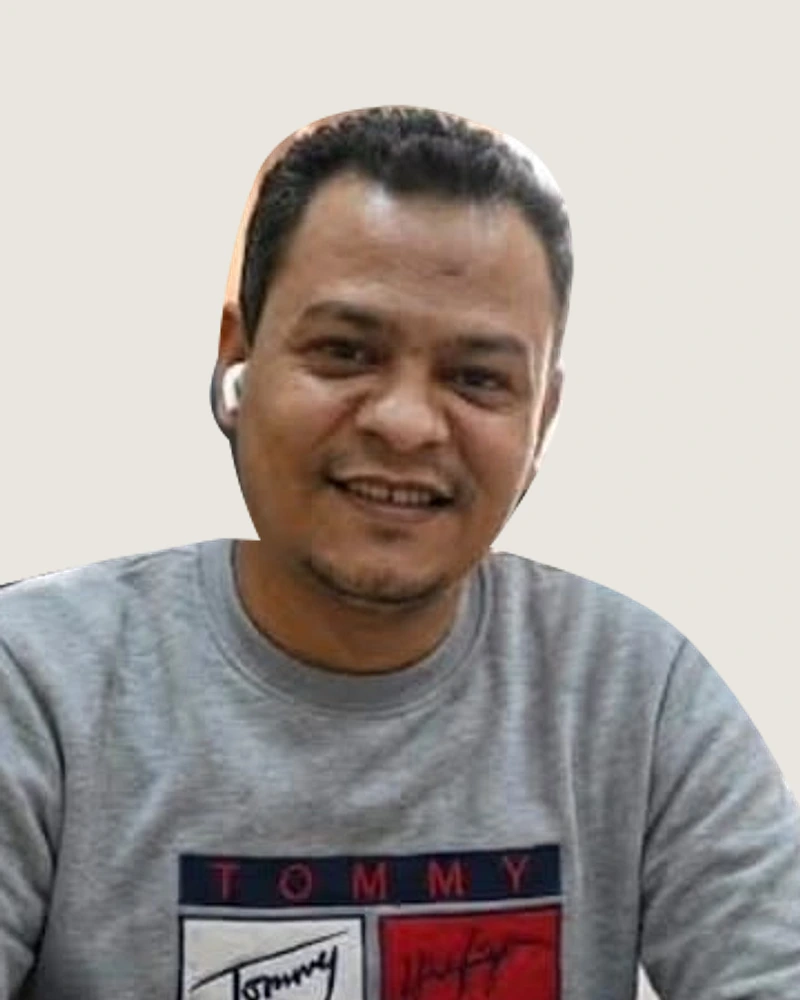
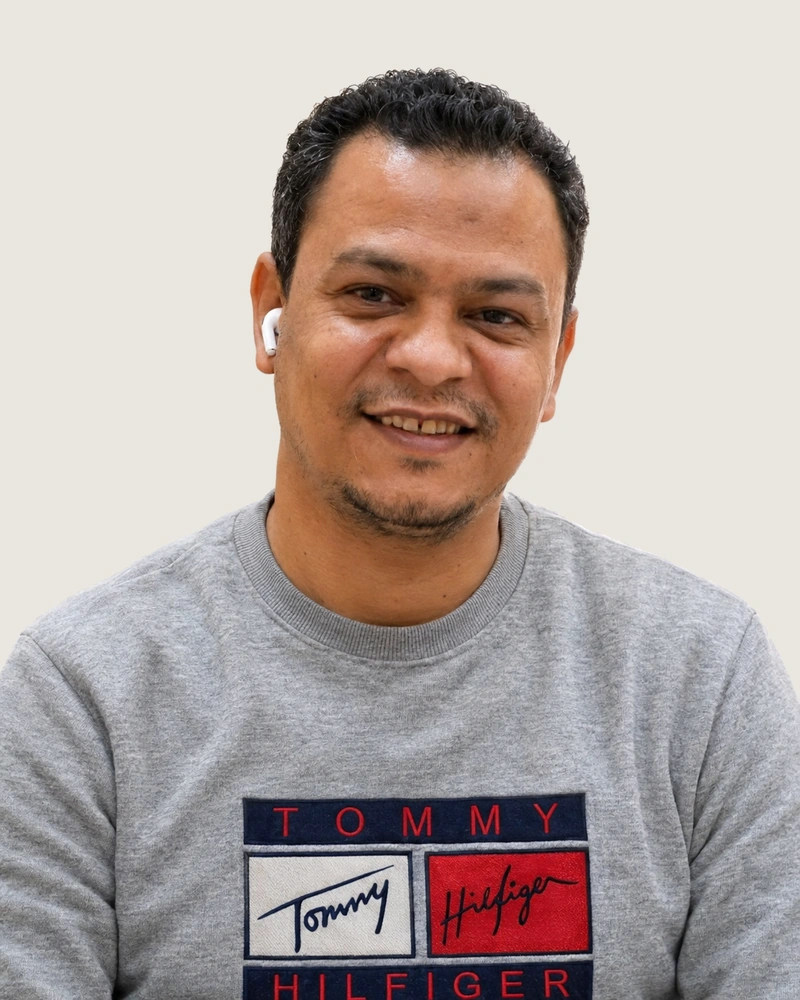
Refine three family portraits and add subtle fade and zoom

diff --git a/about.html b/about.html
@@ -1,13 +1,13 @@
 <!doctype html>
 <html lang="ar" dir="rtl"><head><meta charset="utf-8"><meta name="viewport" content="width=device-width,initial-scale=1">
 <title>من نحن | مصنع الفتح للوف المصري</title><meta name="description" content="مصنع الفتح للوف المصري الطبيعي. أكثر من 150 عاملًا، إنتاج يتجاوز 8000 قطعة يوميًا، وتصدير للخليج وأوروبا.">
-<meta name="theme-color" content="#163d30"><link rel="icon" type="image/svg+xml" href="assets/favicon.svg"><link rel="preload" href="assets/tajawal-medium.woff" as="font" type="font/woff" crossorigin><link rel="preload" href="assets/lalezar-regular.woff" as="font" type="font/woff" crossorigin><link rel="stylesheet" href="assets/style.css?v=6-family"><script src="assets/app.js?v=5-factory-photos" defer></script></head>
+<meta name="theme-color" content="#163d30"><link rel="icon" type="image/svg+xml" href="assets/favicon.svg"><link rel="preload" href="assets/tajawal-medium.woff" as="font" type="font/woff" crossorigin><link rel="preload" href="assets/lalezar-regular.woff" as="font" type="font/woff" crossorigin><link rel="stylesheet" href="assets/style.css?v=7-family-retouch"><script src="assets/app.js?v=5-factory-photos" defer></script></head>
 <body data-page="about" data-title-en="About us | Al Fath Egyptian Loofah"><a class="skip" href="#main"><span data-en="Skip to content" >انتقل للمحتوى</span></a><header class="site-header"><div class="wrap header-row"><a class="brand" href="index.html" aria-label="مصنع الفتح — الرئيسية" data-en-aria="Al Fath — Home">
     <svg class="brand-mark" viewBox="0 0 48 60" aria-hidden="true" fill="none" stroke="currentColor" stroke-width="1.1"><path d="M24 56V16M24 37C8 37 5 22 8 13c14 1 19 11 16 24Zm0-12c-2-10 1-19 13-23 5 12 1 21-13 23Zm0 22c14 0 21-13 18-22-13 1-21 11-18 22Z"/><path d="M10 17 24 37M35 8 24 25m15 5L24 47"/><path d="M9 57h30"/></svg>
     <span><strong data-en="Al Fath" class="brand-name">مصنع الفتح</strong><span class="brand-sub">SILK LOOFAH · EGYPT</span></span></a>
     <nav class="main-nav" id="main-nav" aria-label="القائمة الرئيسية" data-en-aria="Main navigation"><a href="index.html" ><span data-en="Home" >الرئيسية</span></a><a href="products.html" ><span data-en="Products" >المنتجات</span></a><a href="gallery.html" ><span data-en="Gallery" >معرض الصور</span></a><a href="about.html" aria-current="page" ><span data-en="About us" >من نحن</span></a><a href="contact.html" ><span data-en="Contact" >اتصل بنا</span></a></nav>
     <div class="header-actions"><a class="header-contact" href="contact.html"><span data-en="Wholesale &amp; export" >للتوريد والتصدير</span></a><button class="language" type="button" aria-label="Switch to English">EN</button>
-    <button class="menu-toggle" type="button" aria-expanded="false" aria-controls="main-nav" aria-label="فتح القائمة" data-en-aria="Open menu"><svg class="icon" viewBox="0 0 24 24" aria-hidden="true"><path d="M3 6h18M3 12h18M3 18h18"/></svg></button></div></div></header><main id="main"><section class="family-section" aria-labelledby="family-title"><div class="wrap"><div class="breadcrumb"><a href="index.html"><span data-en="Home" >الرئيسية</span></a><span>/</span><span data-en="About us" >من نحن</span></div><div class="family-heading"><h1 data-en="Al Fath Company &amp; Factory for Natural Loofah Production and Manufacturing" id="family-title">شركة ومصنع الفتح لانتاج وتصنيع اللوف الطبيعي</h1><p data-en="A family company" class="family-subtitle">شركة عائلية</p></div><div class="family-grid"><figure class="family-member"><img src="assets/family-01-hajj-fathi.webp" width="800" height="1000" alt="الحاج فتحى" data-en-alt="Hajj Fathi" fetchpriority="high" decoding="async"><figcaption><h2 data-en="Hajj Fathi" >الحاج فتحى</h2></figcaption></figure><figure class="family-member"><img src="assets/family-02-karam.webp" width="800" height="1000" alt="كرم" data-en-alt="Karam" loading="lazy" decoding="async"><figcaption><h2 data-en="Karam" >كرم</h2></figcaption></figure><figure class="family-member"><img src="assets/family-03-mohamed.webp" width="800" height="1000" alt="محمد" data-en-alt="Mohamed" loading="lazy" decoding="async"><figcaption><h2 data-en="Mohamed" >محمد</h2></figcaption></figure><figure class="family-member"><img src="assets/family-04-ibrahim.webp" width="800" height="1000" alt="ابراهيم" data-en-alt="Ibrahim" loading="lazy" decoding="async"><figcaption><h2 data-en="Ibrahim" >ابراهيم</h2></figcaption></figure><figure class="family-member"><img src="assets/family-05-ahmed.webp" width="800" height="1000" alt="احمد" data-en-alt="Ahmed" loading="lazy" decoding="async"><figcaption><h2 data-en="Ahmed" >احمد</h2></figcaption></figure></div></div></section>
+    <button class="menu-toggle" type="button" aria-expanded="false" aria-controls="main-nav" aria-label="فتح القائمة" data-en-aria="Open menu"><svg class="icon" viewBox="0 0 24 24" aria-hidden="true"><path d="M3 6h18M3 12h18M3 18h18"/></svg></button></div></div></header><main id="main"><section class="family-section" aria-labelledby="family-title"><div class="wrap"><div class="breadcrumb"><a href="index.html"><span data-en="Home" >الرئيسية</span></a><span>/</span><span data-en="About us" >من نحن</span></div><div class="family-heading"><h1 data-en="Al Fath Company &amp; Factory for Natural Loofah Production and Manufacturing" id="family-title">شركة ومصنع الفتح لانتاج وتصنيع اللوف الطبيعي</h1><p data-en="A family company" class="family-subtitle">شركة عائلية</p></div><div class="family-grid"><figure class="family-member"><div class="family-portrait" style="--portrait-delay:0ms"><img src="assets/family-01-hajj-fathi.webp?v=7-retouch" width="800" height="1000" alt="الحاج فتحى" data-en-alt="Hajj Fathi" fetchpriority="high" decoding="async"></div><figcaption><h2 data-en="Hajj Fathi" >الحاج فتحى</h2></figcaption></figure><figure class="family-member"><div class="family-portrait" style="--portrait-delay:90ms"><img src="assets/family-02-karam.webp" width="800" height="1000" alt="كرم" data-en-alt="Karam" loading="lazy" decoding="async"></div><figcaption><h2 data-en="Karam" >كرم</h2></figcaption></figure><figure class="family-member"><div class="family-portrait" style="--portrait-delay:180ms"><img src="assets/family-03-mohamed.webp?v=7-retouch" width="800" height="1000" alt="محمد" data-en-alt="Mohamed" loading="lazy" decoding="async"></div><figcaption><h2 data-en="Mohamed" >محمد</h2></figcaption></figure><figure class="family-member"><div class="family-portrait" style="--portrait-delay:270ms"><img src="assets/family-04-ibrahim.webp?v=7-retouch" width="800" height="1000" alt="ابراهيم" data-en-alt="Ibrahim" loading="lazy" decoding="async"></div><figcaption><h2 data-en="Ibrahim" >ابراهيم</h2></figcaption></figure><figure class="family-member"><div class="family-portrait" style="--portrait-delay:360ms"><img src="assets/family-05-ahmed.webp" width="800" height="1000" alt="احمد" data-en-alt="Ahmed" loading="lazy" decoding="async"></div><figcaption><h2 data-en="Ahmed" >احمد</h2></figcaption></figure></div></div></section>
     <section class="section"><div class="wrap intro-grid"><div><p data-en="AL FATH FACTORY · SILK LOOFAH" class="eyebrow">مصنع الفتح · SILK LOOFAH</p><h2 data-en="We grow the story. We craft the details." >نزرع الحكاية، ونصنع تفاصيلها.</h2><p data-en="At Al Fath, our work in natural loofah begins on our Egyptian farms. Across 2,000 square metres of factory space, more than 150 people craft a diverse collection, producing over 8,000 pieces every day." class="lead">في مصنع الفتح، نعمل في اللوف الطبيعي انطلاقًا من مزارعنا المصرية. وعلى مساحة 2,000 متر مربع، يشارك أكثر من 150 عاملًا في صناعة تشكيلة متنوعة، بإنتاج يتجاوز 8,000 قطعة يوميًا.</p><p data-en="We offer a range of sizes, colours, shapes and models for wholesalers and importers. Our products reach the Gulf and European countries, with an office in Greece supporting our partnerships." class="lead">نقدم مقاسات وألوانًا وأشكالًا وموديلات متعددة، ونورد لتجار الجملة والمستوردين. ونصل بمنتجاتنا إلى الخليج ودول أوروبا، مع مكتب في اليونان يدعم تواصلنا مع شركائنا.</p></div><div><img class="about-image" src="assets/factory-01.webp" width="1600" height="1200" alt="من داخل مصنع الفتح وتجهيز البطانة" data-en-alt="Inside Al Fath factory, preparing the lining"></div></div></section>
     <div class="wrap stats"><div class="stat"><strong data-en="150+" >150+</strong> <span data-en="Skilled people" >عاملًا بخبرة وحِرفة</span></div><div class="stat"><strong data-en="2,000" >2,000</strong> <span data-en="Square metres of factory space" >متر مربع مساحة المصنع</span></div><div class="stat"><strong data-en="8,000+" >8,000+</strong> <span data-en="Pieces produced daily" >قطعة إنتاج يومي</span></div><div class="stat"><strong data-en="Egypt" >مصر</strong> <span data-en="Our farms. Our beginnings." >مزارعنا.. وبداية الحكاية</span></div></div>
     <section class="section"><div class="wrap"><div class="section-head"><div><p data-en="FROM FIELD TO FINISHED PIECE" class="eyebrow">رحلة مترابطة</p><h2 data-en="From our fields to our partners." >من الزراعة.. إلى شريكنا.</h2></div></div><div class="process"><div class="step"><span class="number">01</span><h3 data-en="Growing" >الزراعة</h3><p data-en="The journey begins in our Egyptian loofah fields." >من مزارعنا المصرية تبدأ رحلة اللوف الطبيعي.</p></div><div class="step"><span class="number">02</span><h3 data-en="Preparing" >التجهيز</h3><p data-en="Preparing the plant fibres for production." >تجهيز الخامة لبدء مراحل التصنيع.</p></div><div class="step"><span class="number">03</span><h3 data-en="Crafting" >التصنيع</h3><p data-en="Shaping and assembling a variety of product models." >تشكيل وتجميع المنتجات في موديلات متنوعة.</p></div><div class="step"><span class="number">04</span><h3 data-en="Supplying" >التوريد والتصدير</h3><p data-en="Supplying wholesale partners in Egypt, the Gulf and Europe." >منتجاتنا لشركاء الجملة في مصر والخليج وأوروبا.</p></div></div></div></section>

diff --git a/gallery.html b/gallery.html
@@ -1,7 +1,7 @@
 <!doctype html>
 <html lang="ar" dir="rtl"><head><meta charset="utf-8"><meta name="viewport" content="width=device-width,initial-scale=1">
 <title>معرض الصور | مصنع الفتح للوف المصري</title><meta name="description" content="مصنع الفتح للوف المصري الطبيعي. أكثر من 150 عاملًا، إنتاج يتجاوز 8000 قطعة يوميًا، وتصدير للخليج وأوروبا.">
-<meta name="theme-color" content="#163d30"><link rel="icon" type="image/svg+xml" href="assets/favicon.svg"><link rel="preload" href="assets/tajawal-medium.woff" as="font" type="font/woff" crossorigin><link rel="preload" href="assets/lalezar-regular.woff" as="font" type="font/woff" crossorigin><link rel="stylesheet" href="assets/style.css?v=6-family"><script src="assets/app.js?v=5-factory-photos" defer></script></head>
+<meta name="theme-color" content="#163d30"><link rel="icon" type="image/svg+xml" href="assets/favicon.svg"><link rel="preload" href="assets/tajawal-medium.woff" as="font" type="font/woff" crossorigin><link rel="preload" href="assets/lalezar-regular.woff" as="font" type="font/woff" crossorigin><link rel="stylesheet" href="assets/style.css?v=7-family-retouch"><script src="assets/app.js?v=5-factory-photos" defer></script></head>
 <body data-page="gallery" data-title-en="Gallery | Al Fath Egyptian Loofah"><a class="skip" href="#main"><span data-en="Skip to content" >انتقل للمحتوى</span></a><header class="site-header"><div class="wrap header-row"><a class="brand" href="index.html" aria-label="مصنع الفتح — الرئيسية" data-en-aria="Al Fath — Home">
     <svg class="brand-mark" viewBox="0 0 48 60" aria-hidden="true" fill="none" stroke="currentColor" stroke-width="1.1"><path d="M24 56V16M24 37C8 37 5 22 8 13c14 1 19 11 16 24Zm0-12c-2-10 1-19 13-23 5 12 1 21-13 23Zm0 22c14 0 21-13 18-22-13 1-21 11-18 22Z"/><path d="M10 17 24 37M35 8 24 25m15 5L24 47"/><path d="M9 57h30"/></svg>
     <span><strong data-en="Al Fath" class="brand-name">مصنع الفتح</strong><span class="brand-sub">SILK LOOFAH · EGYPT</span></span></a>

diff --git a/products.html b/products.html
@@ -1,7 +1,7 @@
 <!doctype html>
 <html lang="ar" dir="rtl"><head><meta charset="utf-8"><meta name="viewport" content="width=device-width,initial-scale=1">
 <title>المنتجات | مصنع الفتح للوف المصري</title><meta name="description" content="مصنع الفتح للوف المصري الطبيعي. أكثر من 150 عاملًا، إنتاج يتجاوز 8000 قطعة يوميًا، وتصدير للخليج وأوروبا.">
-<meta name="theme-color" content="#163d30"><link rel="icon" type="image/svg+xml" href="assets/favicon.svg"><link rel="preload" href="assets/tajawal-medium.woff" as="font" type="font/woff" crossorigin><link rel="preload" href="assets/lalezar-regular.woff" as="font" type="font/woff" crossorigin><link rel="stylesheet" href="assets/style.css?v=6-family"><script src="assets/app.js?v=5-factory-photos" defer></script></head>
+<meta name="theme-color" content="#163d30"><link rel="icon" type="image/svg+xml" href="assets/favicon.svg"><link rel="preload" href="assets/tajawal-medium.woff" as="font" type="font/woff" crossorigin><link rel="preload" href="assets/lalezar-regular.woff" as="font" type="font/woff" crossorigin><link rel="stylesheet" href="assets/style.css?v=7-family-retouch"><script src="assets/app.js?v=5-factory-photos" defer></script></head>
 <body data-page="products" data-title-en="Products | Al Fath Egyptian Loofah"><a class="skip" href="#main"><span data-en="Skip to content" >انتقل للمحتوى</span></a><header class="site-header"><div class="wrap header-row"><a class="brand" href="index.html" aria-label="مصنع الفتح — الرئيسية" data-en-aria="Al Fath — Home">
     <svg class="brand-mark" viewBox="0 0 48 60" aria-hidden="true" fill="none" stroke="currentColor" stroke-width="1.1"><path d="M24 56V16M24 37C8 37 5 22 8 13c14 1 19 11 16 24Zm0-12c-2-10 1-19 13-23 5 12 1 21-13 23Zm0 22c14 0 21-13 18-22-13 1-21 11-18 22Z"/><path d="M10 17 24 37M35 8 24 25m15 5L24 47"/><path d="M9 57h30"/></svg>
     <span><strong data-en="Al Fath" class="brand-name">مصنع الفتح</strong><span class="brand-sub">SILK LOOFAH · EGYPT</span></span></a>

diff --git a/contact.html b/contact.html
@@ -1,7 +1,7 @@
 <!doctype html>
 <html lang="ar" dir="rtl"><head><meta charset="utf-8"><meta name="viewport" content="width=device-width,initial-scale=1">
 <title>اتصل بنا | مصنع الفتح للوف المصري</title><meta name="description" content="مصنع الفتح للوف المصري الطبيعي. أكثر من 150 عاملًا، إنتاج يتجاوز 8000 قطعة يوميًا، وتصدير للخليج وأوروبا.">
-<meta name="theme-color" content="#163d30"><link rel="icon" type="image/svg+xml" href="assets/favicon.svg"><link rel="preload" href="assets/tajawal-medium.woff" as="font" type="font/woff" crossorigin><link rel="preload" href="assets/lalezar-regular.woff" as="font" type="font/woff" crossorigin><link rel="stylesheet" href="assets/style.css?v=6-family"><script src="assets/app.js?v=5-factory-photos" defer></script></head>
+<meta name="theme-color" content="#163d30"><link rel="icon" type="image/svg+xml" href="assets/favicon.svg"><link rel="preload" href="assets/tajawal-medium.woff" as="font" type="font/woff" crossorigin><link rel="preload" href="assets/lalezar-regular.woff" as="font" type="font/woff" crossorigin><link rel="stylesheet" href="assets/style.css?v=7-family-retouch"><script src="assets/app.js?v=5-factory-photos" defer></script></head>
 <body data-page="contact" data-title-en="Contact | Al Fath Egyptian Loofah"><a class="skip" href="#main"><span data-en="Skip to content" >انتقل للمحتوى</span></a><header class="site-header"><div class="wrap header-row"><a class="brand" href="index.html" aria-label="مصنع الفتح — الرئيسية" data-en-aria="Al Fath — Home">
     <svg class="brand-mark" viewBox="0 0 48 60" aria-hidden="true" fill="none" stroke="currentColor" stroke-width="1.1"><path d="M24 56V16M24 37C8 37 5 22 8 13c14 1 19 11 16 24Zm0-12c-2-10 1-19 13-23 5 12 1 21-13 23Zm0 22c14 0 21-13 18-22-13 1-21 11-18 22Z"/><path d="M10 17 24 37M35 8 24 25m15 5L24 47"/><path d="M9 57h30"/></svg>
     <span><strong data-en="Al Fath" class="brand-name">مصنع الفتح</strong><span class="brand-sub">SILK LOOFAH · EGYPT</span></span></a>

diff --git a/index.html b/index.html
@@ -1,7 +1,7 @@
 <!doctype html>
 <html lang="ar" dir="rtl"><head><meta charset="utf-8"><meta name="viewport" content="width=device-width,initial-scale=1">
 <title>الرئيسية | مصنع الفتح للوف المصري</title><meta name="description" content="مصنع الفتح للوف المصري الطبيعي. أكثر من 150 عاملًا، إنتاج يتجاوز 8000 قطعة يوميًا، وتصدير للخليج وأوروبا.">
-<meta name="theme-color" content="#163d30"><link rel="icon" type="image/svg+xml" href="assets/favicon.svg"><link rel="preload" href="assets/tajawal-medium.woff" as="font" type="font/woff" crossorigin><link rel="preload" href="assets/lalezar-regular.woff" as="font" type="font/woff" crossorigin><link rel="stylesheet" href="assets/style.css?v=6-family"><script src="assets/app.js?v=5-factory-photos" defer></script></head>
+<meta name="theme-color" content="#163d30"><link rel="icon" type="image/svg+xml" href="assets/favicon.svg"><link rel="preload" href="assets/tajawal-medium.woff" as="font" type="font/woff" crossorigin><link rel="preload" href="assets/lalezar-regular.woff" as="font" type="font/woff" crossorigin><link rel="stylesheet" href="assets/style.css?v=7-family-retouch"><script src="assets/app.js?v=5-factory-photos" defer></script></head>
 <body data-page="index" data-title-en="Home | Al Fath Egyptian Loofah"><a class="skip" href="#main"><span data-en="Skip to content" >انتقل للمحتوى</span></a><header class="site-header"><div class="wrap header-row"><a class="brand" href="index.html" aria-label="مصنع الفتح — الرئيسية" data-en-aria="Al Fath — Home">
     <svg class="brand-mark" viewBox="0 0 48 60" aria-hidden="true" fill="none" stroke="currentColor" stroke-width="1.1"><path d="M24 56V16M24 37C8 37 5 22 8 13c14 1 19 11 16 24Zm0-12c-2-10 1-19 13-23 5 12 1 21-13 23Zm0 22c14 0 21-13 18-22-13 1-21 11-18 22Z"/><path d="M10 17 24 37M35 8 24 25m15 5L24 47"/><path d="M9 57h30"/></svg>
     <span><strong data-en="Al Fath" class="brand-name">مصنع الفتح</strong><span class="brand-sub">SILK LOOFAH · EGYPT</span></span></a>

diff --git a/assets/style.css b/assets/style.css
@@ -167,7 +167,10 @@ h1{line-height:1.45}h2{line-height:1.5}h3{line-height:1.6;font-weight:700}
 .family-subtitle:after{content:"";display:block;width:40px;height:1px;background:var(--gold);margin:15px auto 0}
 .family-grid{display:flex;flex-wrap:wrap;justify-content:center;gap:28px 20px;align-items:flex-start}
 .family-member{margin:0;min-width:0;flex:0 1 calc((100% - 80px)/5)}
-.family-member img{display:block;width:100%;height:auto;aspect-ratio:4/5;object-fit:cover;border-radius:4px;background:#e9e6df}
+.family-portrait{overflow:hidden;isolation:isolate;border-radius:4px;background:#e9e6df;animation:family-portrait-fade .85s ease-out both;animation-delay:var(--portrait-delay,0ms)}
+.family-member img{display:block;width:100%;height:auto;aspect-ratio:4/5;object-fit:cover;background:#e9e6df;transition:transform 1.1s cubic-bezier(.2,.65,.3,1);transform-origin:center 38%}
+@keyframes family-portrait-fade{from{opacity:0}to{opacity:1}}
+@media(hover:hover) and (pointer:fine){.family-member:hover .family-portrait img{transform:scale(1.025)}}
 .family-member figcaption{text-align:center;padding:14px 4px 0}
 .family-member h2{font-family:Lalezar,Tajawal,sans-serif;font-size:26px;font-weight:400;line-height:1.5;margin:0;color:var(--green)}
 [dir=ltr] .family-heading h1{font-family:Tajawal,Arial,sans-serif;font-size:clamp(29px,3.1vw,42px);font-weight:800;line-height:1.35}
